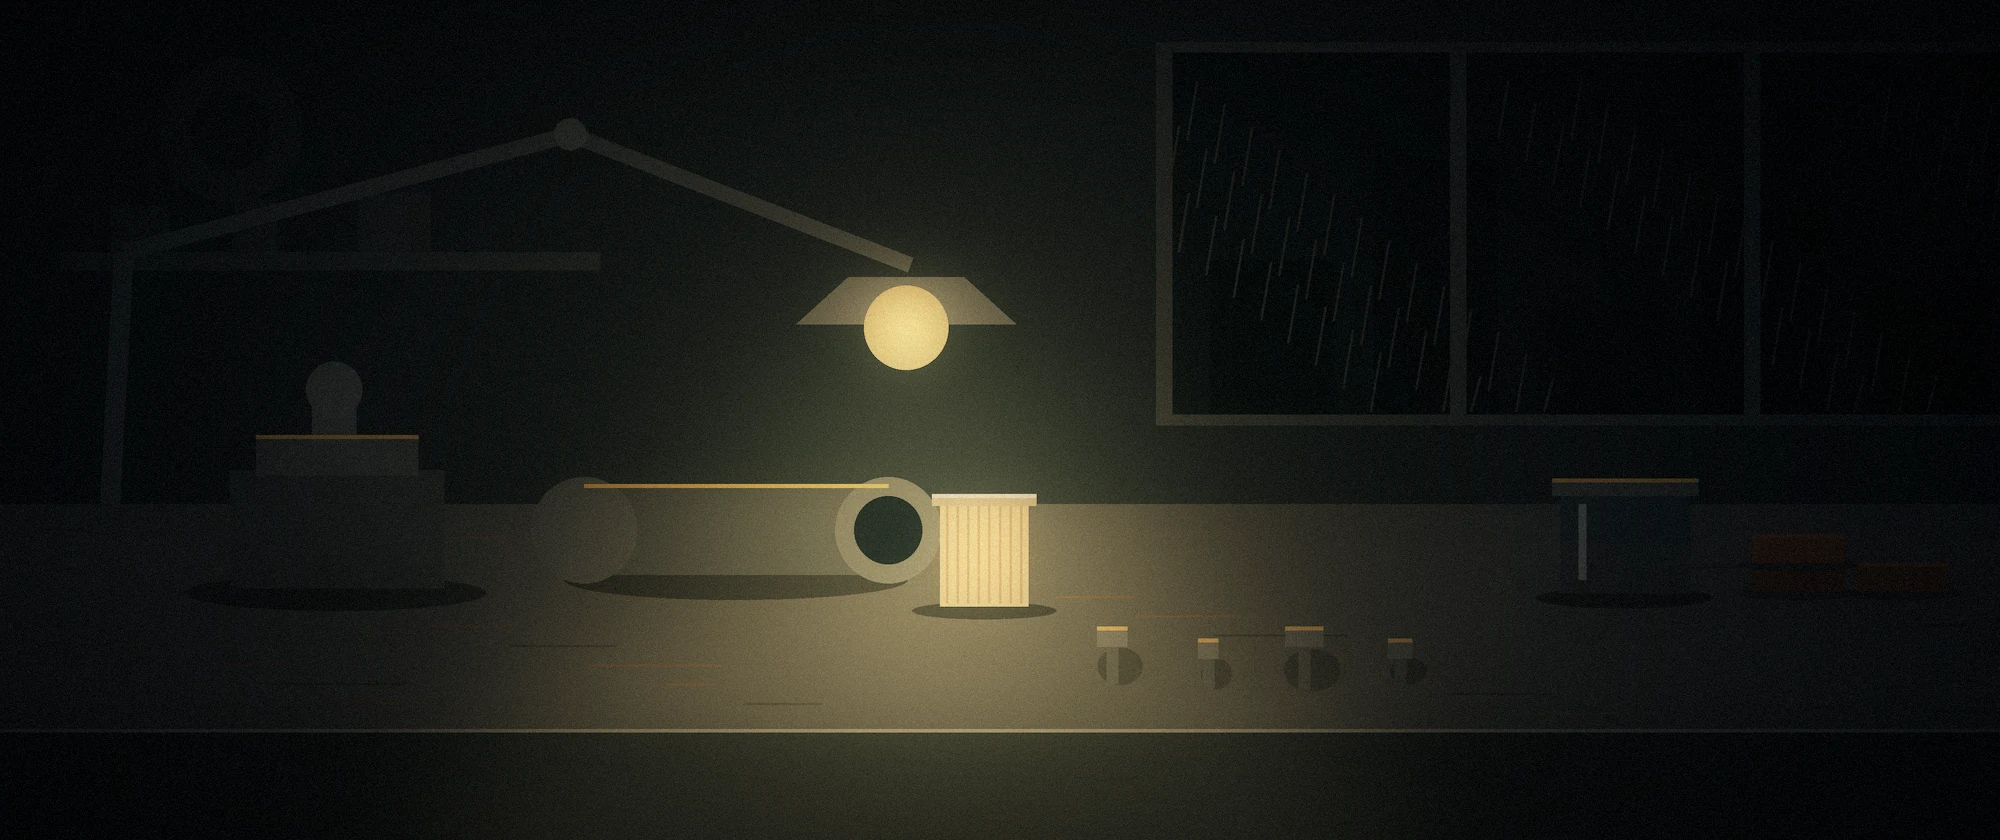
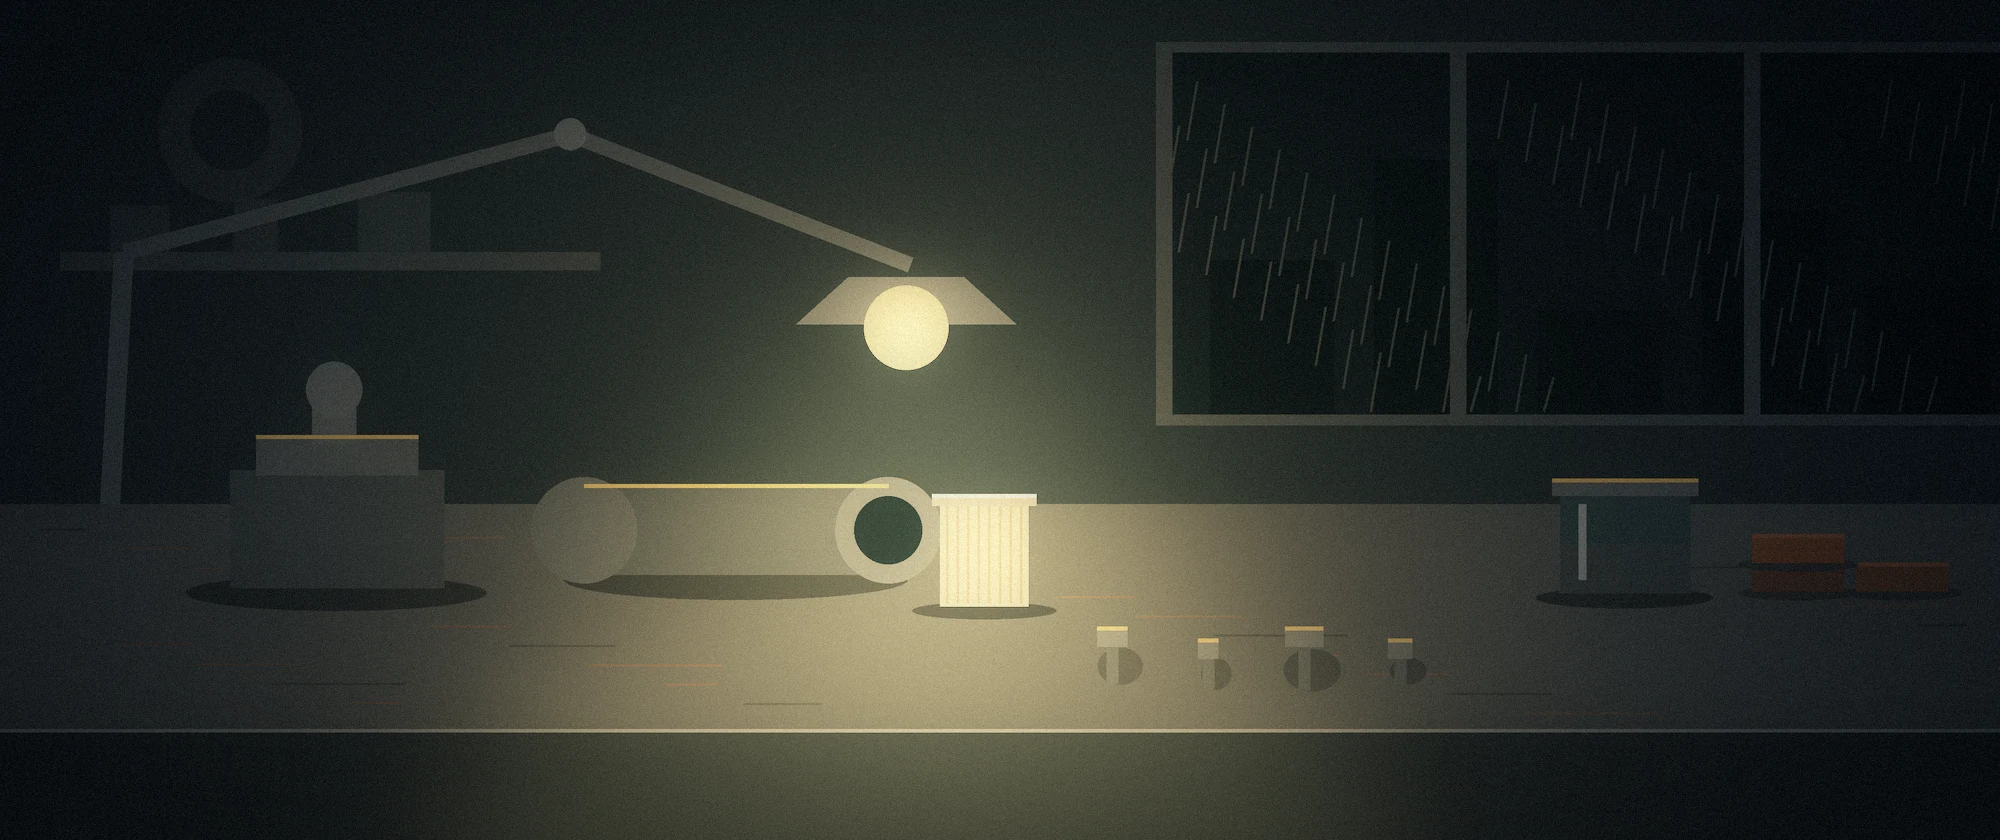
Brighten the workshop, and write down which of my checks was worthless
人類 opened the .webp itself and said it was a bit dark, so ambient, lamp
power and reach, exposure and the vignette floor all came up. The bench,
vice, filter housing, cartridge, jar and window frame are legible now while
the frame stays one lamp at night. All three variants re-rendered.

The record matters more than the tuning here. Two of my own calls this
session were wrong and both are now in LOOP.md as such. I claimed the art
pipeline was verified end to end when the test image was a smooth gradient
and the failure mode is magnification — a magnified gradient is still a
gradient, so that check could not have failed, and a check that cannot fail
is not evidence. Then I blamed display:none for stopping `slice` resolving
the file's dimensions, and removing it changed nothing.

What is established: the files are right under four different ways of
opening them, and wrong inside the app page. Cache, element order, sticky
positioning, the vector drawing, CJK filenames and cross-origin are all
ruled out. A headless screenshot artifact is not ruled out — the page posts
/api/leave 65ms after /api/open — but warming the cache first did not help.

Nobody has looked at this in a real browser yet. 人類 was reading the .webp
directly, so the acceptance criterion in 待驗收 is exactly that and nothing
else: open the page, look at the scene. An auditor must not settle it with a
headless screenshot, which is the instrument this round already failed on.

diff --git a/tools/draw_scenes.py b/tools/draw_scenes.py
@@ -73,7 +73,7 @@ class Frame:
         self.pen = ImageDraw.Draw(self.albedo)
         self.lamps: list[tuple[float, float, float, float]] = []
         self.beams: list[tuple[list[tuple[float, float]], float]] = []
-        self.ambient = 0.13
+        self.ambient = 0.20
 
     # -- drawing helpers take 0..1 coordinates, so a composition reads as a layout --
 
@@ -155,7 +155,7 @@ class Frame:
         cool = np.array([0.52, 0.74, 1.0], dtype=np.float32)
         lit = arr * (light * warm + self.ambient * cool)
 
-        lit = 1.0 - np.exp(-lit * 2.15)  # roll the highlights off instead of clipping
+        lit = 1.0 - np.exp(-lit * 2.7)  # roll the highlights off instead of clipping
         out = Image.fromarray(np.clip(lit * 255, 0, 255).astype(np.uint8))
 
         glow = out.filter(ImageFilter.GaussianBlur(22))
@@ -167,7 +167,7 @@ class Frame:
 def _vignette(img: Image.Image) -> Image.Image:
     yy, xx = np.mgrid[0:H, 0:W].astype(np.float32)
     d = np.sqrt(((xx / W - 0.5) * 1.15) ** 2 + (yy / H - 0.5) ** 2)
-    mask = np.clip(1.0 - (d - 0.38) * 1.25, 0.55, 1.0)[:, :, None]
+    mask = np.clip(1.0 - (d - 0.42) * 1.05, 0.72, 1.0)[:, :, None]
     return Image.fromarray(
         np.clip(np.asarray(img).astype(np.float32) * mask, 0, 255).astype(np.uint8)
     )
@@ -303,10 +303,10 @@ def workshop(f: Frame, stage: int) -> None:
 
     # Rationing dims the lamp as the world worsens — stage 3 is 「限電從一週一次變三次」.
     f.beam([(0.430, 0.386), (0.478, 0.386), (0.70, 1.0), (0.21, 1.0)],
-           power=0.42 - wear * 0.12)
-    f.lamp(0.470, 0.665, 0.36, power=1.55 - wear * 0.36)
+           power=0.50 - wear * 0.12)
+    f.lamp(0.470, 0.665, 0.44, power=1.85 - wear * 0.34)
     f.lamp(0.453, 0.390, 0.075, power=0.85)
-    f.ambient = 0.135 - wear * 0.030
+    f.ambient = 0.205 - wear * 0.030
 
 
 SCENES = {"工作間": workshop}

diff --git a/LOOP.md b/LOOP.md
@@ -251,6 +251,35 @@
 
 <!-- builder 交棒。寫清楚動了哪些檔案、怎麼驗 -->
 
+- **[人類指定] 場景圖真的畫出來了 —— 但畫面上顯示得對不對,還沒有人證實。** **271 passed(沒動 `src/`)。**
+      ⚠ **人類指定的第三則**:「我沒有生圖工具 你幫我生圖」。**這裡也沒有生圖工具**,
+      所以是用程式構圖:`tools/draw_scenes.py`(**新工具**)+ `static/scenes/工作間{,-s2,-s4}.webp`。
+      **跟他否掉的向量圖差在鏡頭**:那個把亂數矩形灑在五十公尺外的天際線,這個把指定的東西
+      放在伸手可及的位置。**燈光是算出來的**(平面底色 × 一盞鈉燈的衰減),
+      那才是向量場景一直沒有的明暗分離。
+      **世界時鐘進到畫面裡了**:濾芯從乳白泛黃到琥珀、燈隨限電變暗、雨變密、
+      stage 4 多一疊鄰居搬走留下的鏽零件。
+
+      **🔴 這一則的重點是我搞錯了什麼,不是我做了什麼:**
+      1. **我宣稱「端到端驗過」,那句話不成立。** 當時的測試圖是一團平滑漸層,
+         而故障正好是把圖放大——**放大的漸層看起來還是漸層,所以檢查通過了一個壞掉的頁面。**
+         **一個不可能失敗的儀器不是證據**,這是〈第四題〉同一個形狀
+      2. **我第二次判斷「`display:none` 讓 `slice` 拿不到原生尺寸」,也是錯的。** 拿掉照樣壞
+      3. **人類 2026-08-08 回報「圖片有點暗」**,已調亮六個參數重算三張
+
+      **確定的事實(都有執行結果)**:圖檔本身正確——直接開檔、直接開網址、
+      放進兩個最小測試頁,**四種方式都正常**。**在 app 頁面裡不正常。**
+      改用 HTML `<img>` 時**伺服器的請求記錄顯示瀏覽器從頭到尾沒發出那個請求**。
+      **已排除**:快取、`display:none`、元素順序、`position:sticky`、向量場景的繪製、
+      中文檔名、跨來源。**沒能排除**:headless 截圖的假象
+      (請求記錄顯示頁面在 `/api/open` 後 **65ms** 就送 `/api/leave`,截圖工具快轉完就關頁),
+      **但先讓圖進快取再拍,還是一樣**,所以不能斷定。
+
+      **怎麼驗(這一則的判準只有一條,而且要人做)**:
+      **拿真瀏覽器打開 `python -m everliving.web --provider auto --db play.db`,看場景那一塊。**
+      看到工作檯 → 沒有 bug,壞的是量測;看到一團模糊的光 → bug 是真的。
+      **auditor 不要用 headless 截圖判這一條**,那正是這一則栽在上面的東西。
+
 - **[人類指定] 場景圖管線 —— 丟一張圖進資料夾就換掉畫面。** **271 passed(原 257,+14),page_check 另 +3 條。**
       ⚠ **人類直接指定的第二則**:他看了畫面說「看不懂你的美術以及視覺畫面 太不行了」,
       在四個方向裡選了「不畫了,改用圖片素材」。
@@ -1650,3 +1679,16 @@ epoch 測試)與第 26 輪(我自己那個名字說 outbound 卻撥 loopback 的
       🔴 **資料夾現在是空的**,在有人真的放圖之前畫面跟今天一樣。
       🔴 **傳下去的顧慮**:設計文件警告過「同時加圖會讓 H-1 測不準」。人類看過畫面後選了這條,
       **但跑 H-1 的人要知道留存數字裡混著圖的效果**。已寫進 README 末尾。
+- 第 37 輪 寫(builder)@2026-08-08 by Claude Opus 5 —— **場景圖畫出來了(程式構圖,不是生圖工具)。**
+      **271 passed,沒動 `src/`。** 人類指定的第三則:「我沒有生圖工具 你幫我生圖」,
+      **而這裡也沒有**,所以 `tools/draw_scenes.py` 用一盞鈉燈的衰減去乘平面底色。
+      三張(`工作間` / `-s2` / `-s4`),世界時鐘真的改變畫面內容。
+      🔴 **這一輪最該記的是兩次誤判,不是產出**:
+      (1) 我宣稱端到端驗過,**而測試圖是一團漸層、故障是放大——放大的漸層還是漸層**,
+      **那個檢查不可能失敗,所以它不是證據**;
+      (2) 我判「`display:none` 讓 `slice` 拿不到尺寸」,**拿掉照樣壞**。
+      **圖檔本身四種開法都正常,只有 app 頁面裡不正常**;改用 `<img>` 時
+      **伺服器記錄顯示瀏覽器根本沒發出請求**。已排除快取/順序/sticky/中文檔名/跨來源;
+      **沒能排除 headless 截圖假象**(頁面在 open 後 65ms 就 leave),但暖快取後照樣壞。
+      ⚠ **人類回報「圖片有點暗」已調亮**——**但他是開 `.webp` 檔看的,不是頁面**,
+      **所以那個顯示問題到現在一個人都沒有真的看過。判準寫在「待驗收」:要人開真瀏覽器。**
